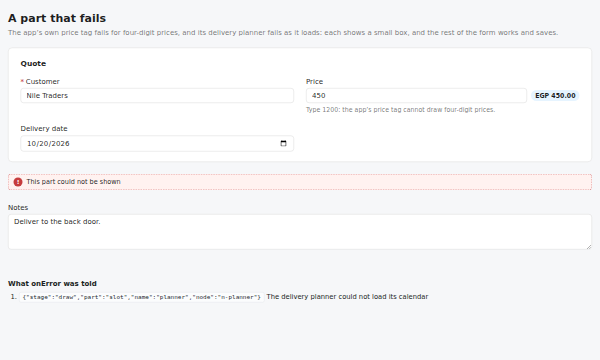
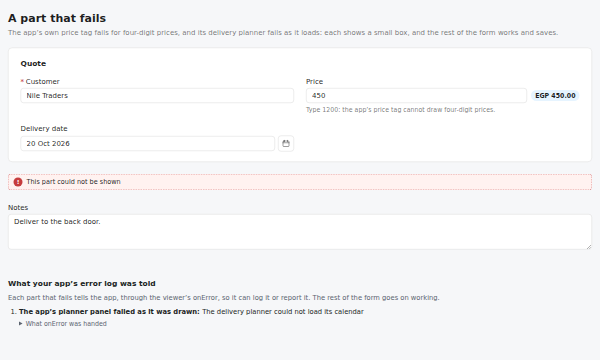
demos: your own parts as a name badge; failures logged in words

Changed region(s): [[0.0, 0.7639, 0.75, 0.9167], [0.03, 0.3667, 0.12, 0.4278], [0.45, 0.3972, 0.48, 0.4278]]

diff --git a/e2e/bindings.spec.ts b/e2e/bindings.spec.ts
@@ -3,34 +3,40 @@ import { node, open, screen } from './support';
 import { VARIANTS } from './variants';
 
 /**
- * A host app's own parts inside a Fieldia form: the "shout" field and the
- * "note" slot are written once per framework, in that framework's own way.
+ * A host app's own parts inside a Fieldia form: the badge field and the
+ * printing desk's slot are written once per framework, in that framework's own way.
  */
 for (const variant of VARIANTS) {
   test.describe(`${variant}: the app's own parts`, () => {
     test('a custom field reads and writes the form, and its label works', async ({ page }) => {
       await open(page, variant, 'page=custom&skin=outlined');
-      await page.getByLabel('Nickname').fill('hello');
-      await expect(node(page, 'f-nickname').locator('output')).toHaveText('HELLO!');
-      expect(await page.evaluate(() => (window as any).fieldiaDemo.handle.form.getState().values.nickname)).toBe('hello');
-      await page.evaluate(() => (window as any).fieldiaDemo.handle.form.setValue('nickname', 'set from outside'));
-      await expect(page.getByLabel('Nickname')).toHaveValue('set from outside');
+      // Nothing on the badge until a name is typed: no lone mark under an empty box.
+      await expect(node(page, 'f-badge-name').locator('output')).toHaveText('');
+      await expect(node(page, 'f-badge-name').locator('output')).toBeHidden();
+      await page.getByLabel('Name on the badge').fill('Sara Hassan');
+      await expect(node(page, 'f-badge-name').locator('output')).toHaveText('SARA HASSAN');
+      expect(await page.evaluate(() => (window as any).fieldiaDemo.handle.form.getState().values.badge_name)).toBe('Sara Hassan');
+      await page.evaluate(() => (window as any).fieldiaDemo.handle.form.setValue('badge_name', 'set from outside'));
+      await expect(page.getByLabel('Name on the badge')).toHaveValue('set from outside');
     });
 
     test('a slot keeps its own state and follows the form', async ({ page }) => {
       await open(page, variant, 'page=custom&skin=outlined');
       const note = node(page, 'note');
-      await note.getByRole('button', { name: 'Clicked 0 times' }).click();
-      await expect(note.getByRole('button', { name: 'Clicked 1 time' })).toBeVisible();
-      await page.getByLabel('Nickname').fill('Sam');
-      await expect(note.locator('.demo-hello')).toHaveText('Hello, Sam');
+      await expect(note.locator('.demo-hello')).toHaveText('Type a name to print its badge.');
+      await note.getByRole('button', { name: 'Print the badge' }).click();
+      await expect(note.getByRole('button', { name: 'Print again (1 printed)' })).toBeVisible();
+      await page.getByLabel('Name on the badge').fill('Sam');
+      await expect(note.locator('.demo-hello')).toHaveText('Ready to print the badge for Sam.');
+      // Its own count, kept across the form's changes.
+      await expect(note.getByRole('button', { name: 'Print again (1 printed)' })).toBeVisible();
       await screen(page, `${variant}-custom-parts`);
     });
 
     test('a required custom field is checked like any other', async ({ page }) => {
       await open(page, variant, 'page=custom');
       await page.getByRole('button', { name: 'Submit' }).click();
-      await expect(node(page, 'f-nickname').locator('.fd-error')).toHaveText('Nickname is required');
+      await expect(node(page, 'f-badge-name').locator('.fd-error')).toHaveText('Name on the badge is required');
     });
   });
 }

diff --git a/demos/shared/contained.ts b/demos/shared/contained.ts
@@ -99,9 +99,18 @@ export const priceTag: WidgetFactory = ({ form, name, id, document: doc }) => {
 /** The delivery planner, as a plain-DOM slot: it throws before it draws anything. */
 export const plannerSlot: SlotRenderer = () => loadPlanner();
 
+/** A failing part in a reader's words: which part it was, and when it failed. */
+function partWords(where: PartFailure, page: Page = containedPage): string {
+  const label = where.field ? page.fields[where.field]?.label ?? where.field : null;
+  const what = label ? `The ${label} field’s own widget` : where.part === 'slot' ? `The app’s ${where.name ?? 'own'} panel` : `A ${where.part}`;
+  const when = { draw: 'as it was drawn', update: 'as its value changed', focus: 'as it took the focus', remove: 'as it was taken away' }[where.stage];
+  return `${what} failed ${when}`;
+}
+
 /**
- * The list under the form of what onError was told: where, and the error's own words. A plain-DOM box every
- * framework's demo puts after its form, and the `onError` to give the viewer.
+ * Under the form, what the viewer's onError was told — the app's own log of what broke: each failure in words (which
+ * part, when, and the error's own message), with exactly what onError was handed beside it, for the developer. A
+ * plain-DOM box every framework's demo puts after its form, and the `onError` to give the viewer.
  */
 export function errorLog(doc: Document): { element: HTMLElement; onError: (error: unknown, where: PartFailure) => void } {
   const element = doc.createElement('section');
@@ -109,19 +118,28 @@ export function errorLog(doc: Document): { element: HTMLElement; onError: (error
   element.setAttribute('aria-labelledby', 'demo-error-log-title');
   const title = doc.createElement('h2');
   title.id = 'demo-error-log-title';
-  title.textContent = 'What onError was told';
-  const empty = doc.createElement('p');
-  empty.textContent = 'Nothing yet.';
+  title.textContent = 'What your app’s error log was told';
+  const about = doc.createElement('p');
+  about.className = 'demo-error-log-about';
+  about.textContent = 'Each part that fails tells the app, through the viewer’s onError, so it can log it or report it. Nothing has failed yet.';
   const list = doc.createElement('ol');
-  element.append(title, empty, list);
+  element.append(title, about, list);
   return {
     element,
     onError(error, where) {
-      empty.hidden = true;
+      about.textContent = 'Each part that fails tells the app, through the viewer’s onError, so it can log it or report it. The rest of the form goes on working.';
       const item = doc.createElement('li');
-      const said = doc.createElement('code');
-      said.textContent = JSON.stringify(where);
-      item.append(said, ` ${error instanceof Error ? error.message : String(error)}`);
+      const said = doc.createElement('p');
+      const words = doc.createElement('strong');
+      words.textContent = `${partWords(where)}: `;
+      said.append(words, error instanceof Error ? error.message : String(error));
+      const handed = doc.createElement('details');
+      const summary = doc.createElement('summary');
+      summary.textContent = 'What onError was handed';
+      const code = doc.createElement('code');
+      code.textContent = JSON.stringify(where);
+      handed.append(summary, code);
+      item.append(said, handed);
       list.append(item);
     },
   };

diff --git a/demos/shared/custom-page.ts b/demos/shared/custom-page.ts
@@ -1,24 +1,26 @@
 import type { Page } from '@fieldia/core';
 
 /**
- * A page made to prove that a host app can plug in its own parts: the
- * "shout" field and the "note" slot are written once per framework, each in
- * that framework's own way, and behave the same everywhere.
+ * Your own parts, as an app uses them: a conference's badge. The name on it is
+ * a field drawn by the app's own widget, which shows the badge as it is typed;
+ * the printing desk under it is a slot the app fills, with a count of its own
+ * that follows the form. Each framework's demo writes the two parts in its own
+ * way (main.ts / main.tsx), from the words here, and they behave the same.
  */
 export const customPage: Page = {
   fieldia: '0.1',
-  id: 'custom-parts',
-  title: 'Your own parts',
-  description: 'A field and a panel written in the host framework, inside a Fieldia form.',
+  id: 'badge',
+  title: 'Your conference badge',
+  description: 'The name is typed into a field the app draws itself, which shows the badge as it will be printed. The printing desk under it is the app’s own panel.',
   data: { kind: 'responses' },
   fields: {
-    nickname: { type: 'char', label: 'Nickname', required: true },
-    mood: {
+    badge_name: { type: 'char', label: 'Name on the badge', required: true, help: 'As people should read it from across the room.' },
+    badge_type: {
       type: 'selection',
-      label: 'Mood',
+      label: 'Badge',
       options: [
-        { value: 'calm', label: 'Calm' },
-        { value: 'busy', label: 'Busy' },
+        { value: 'attendee', label: 'Attendee' },
+        { value: 'speaker', label: 'Speaker' },
       ],
     },
   },
@@ -29,10 +31,10 @@ export const customPage: Page = {
       {
         type: 'section',
         id: 'parts',
-        title: 'Custom field',
+        title: 'Your badge',
         children: [
-          { type: 'field', id: 'f-nickname', field: 'nickname', widget: 'shout' },
-          { type: 'field', id: 'f-mood', field: 'mood', widget: 'radio' },
+          { type: 'field', id: 'f-badge-name', field: 'badge_name', widget: 'name-badge' },
+          { type: 'field', id: 'f-badge-type', field: 'badge_type', widget: 'radio' },
         ],
       },
       { type: 'slot', id: 'note', name: 'note' },
@@ -40,8 +42,9 @@ export const customPage: Page = {
   },
 };
 
-/** What the shout field shows under its input. */
-export const shout = (value: unknown) => `${String(value ?? '').toUpperCase()}!`;
-/** What the note slot says. */
-export const clicked = (n: number) => `Clicked ${n} ${n === 1 ? 'time' : 'times'}`;
-export const greeting = (nickname: unknown) => (nickname ? `Hello, ${String(nickname)}` : 'Hello');
+/** The badge, as the app's own widget shows it under its box: the name in capitals, as it is printed; nothing until typed. */
+export const shout = (value: unknown) => String(value ?? '').trim().toUpperCase();
+/** The printing desk's button: its own count, kept by the panel itself. */
+export const clicked = (n: number) => (n === 0 ? 'Print the badge' : `Print again (${n} printed)`);
+/** What the printing desk says, from the form's own values: it follows the name as it is typed. */
+export const greeting = (name: unknown) => (String(name ?? '').trim() ? `Ready to print the badge for ${String(name).trim()}.` : 'Type a name to print its badge.');

diff --git a/demos/plain/main.ts b/demos/plain/main.ts
@@ -10,7 +10,7 @@ import { chatterSlot } from '@fieldia/chatter';
 import { sampleChatter } from '../shared/sample-chatter';
 import { historySlot } from '@fieldia/chatter';
 import { wiHistoryChatter } from '../shared/wi-history';
-import { appPages, openRecord, optionsFromQuery, pageFromQuery, recordFromQuery, sampleDataSource } from '../shared/sample-data';
+import { appPages, openRecord, optionsFromQuery, pageFromQuery, pages, recordFromQuery, sampleDataSource } from '../shared/sample-data';
 import { panelBar } from '../shared/panel-demo';
 import { answerAction } from '../shared/order-desk';
 import { timeFirstPaint } from '../shared/timing';
@@ -32,7 +32,7 @@ const actions: string[] = [];
 /** Every button press in full, with the records chosen in a list. */
 const requests: ActionRequest[] = [];
 
-/** The "shout" field, as a plain-DOM widget. */
+/** The badge field, as a plain-DOM widget. */
 const shoutWidget: WidgetFactory = ({ form, name: field, id, document }) => {
   const input = document.createElement('input');
   input.id = id;
@@ -84,7 +84,7 @@ const options: ViewerOptions = {
     // The shop's answers to the pages' steps: the stock checked for "Order by phone".
     return answerAction(request, params.get('locale') ?? undefined);
   },
-  widgets: { 'char.shout': shoutWidget, 'monetary.tag': priceTag, ...gridWidgets, ...codeWidgets, ...monaco, ...demoMapWidgets },
+  widgets: { 'char.name-badge': shoutWidget, 'monetary.tag': priceTag, ...gridWidgets, ...codeWidgets, ...monaco, ...demoMapWidgets },
   // Told of each part that fails, which then shows a small box in its place: "A part that fails" lists them.
   onError: failures?.onError,
   // A list with `map` shows its records on one too.
@@ -109,7 +109,7 @@ const options: ViewerOptions = {
       button.addEventListener('click', () => (button.textContent = clicked(++clicks)));
       const hello = document.createElement('p');
       hello.className = 'demo-hello';
-      const show = () => (hello.textContent = greeting(form.getState().values['nickname']));
+      const show = () => (hello.textContent = greeting(form.getState().values['badge_name']));
       show();
       const leave = form.subscribe(show);
       element.className += ' demo-note';
@@ -188,4 +188,5 @@ if (name === 'fields') {
 // The listing has a bar over it: ten photos as a phone takes them, added at once (shared/listing-photos.ts).
 if (name === 'listing-photos') document.getElementById('app')?.before(photosBar());
 
-Object.assign(window, { fieldiaDemo: { handle, dataSource, actions, requests, chatter, panelResults } });
+// `pageNames`: every page `?page=` opens, for the browser test that each is named for what it shows.
+Object.assign(window, { fieldiaDemo: { handle, dataSource, actions, requests, chatter, panelResults, pageNames: Object.keys(pages) } });

diff --git a/demos/demo.css b/demos/demo.css
@@ -29,10 +29,17 @@ html, body { margin: 0; background: #f7f8fa; color: #1f2933; font: 14px/1.45 sys
 .demo-feed { background: #fff; border: 1px solid #e3e6ea; padding: 14px 16px; border-radius: 6px; }
 .demo-feed h3 { margin: 0 0 8px; font-size: 14px; }
 .demo-feed p { margin: 6px 0; color: #4b5563; }
-.demo-shout { display: grid; gap: 4px; }
-.demo-shout output { font-weight: 700; letter-spacing: 0.04em; color: var(--fd-accent); }
-.demo-note { display: flex; gap: 12px; align-items: center; padding: 12px 0; }
-.demo-hello { margin: 0; }
+/* "Your own parts": the badge field the app draws (its box, then the badge as it will be printed), and the printing desk
+   it fills a slot with. In Fieldia's tokens, so each follows the look and the scheme. */
+.demo-shout { display: grid; gap: 12px; justify-items: start; }
+.demo-shout .fd-input { justify-self: stretch; }
+.demo-shout output { min-width: min(260px, 100%); max-width: 100%; box-sizing: border-box; padding: 12px 22px 16px; border: 2px solid var(--fd-accent); border-block-start-width: 10px; border-radius: 12px; background: var(--fd-surface); color: var(--fd-text); font-size: 24px; font-weight: 800; letter-spacing: 0.05em; text-align: center; overflow-wrap: anywhere; }
+.demo-shout output::before { content: "Hello, my name is"; display: block; margin-block-end: 4px; color: var(--fd-muted); font-size: 11px; font-weight: 700; letter-spacing: 0.12em; text-transform: uppercase; }
+.demo-shout output:empty { display: none; }
+.fd-slot[data-slot="note"] { display: flex; flex-wrap: wrap; gap: 12px 16px; align-items: center; padding: 14px 18px; border: 1px dashed var(--fd-border); border-radius: var(--fd-radius, 8px); color: var(--fd-text); }
+.demo-hello { margin: 0; flex: 1 1 16em; }
+/* Angular's component wraps the desk's words and button in an element of its own: laid out as if it were not there. */
+.fd-slot[data-slot="note"] > :is(demo-note, div:only-child) { display: contents; }
 /* The app's price tag ("A part that fails"): a box for the price, and the price as a tag beside it. */
 .demo-price { display: flex; gap: 8px; align-items: center; }
 .demo-price .fd-input { flex: 1; min-width: 0; }

diff --git a/demos/vue/main.ts b/demos/vue/main.ts
@@ -20,7 +20,7 @@ const actions: string[] = [];
 /** Every button press in full, with the records chosen in a list. */
 const requests: ActionRequest[] = [];
 
-/** The "shout" field, as a Vue component. */
+/** The badge field, as a Vue component. */
 const Shout = defineComponent({
   props: {
     value: { type: null as unknown as PropType<Value | undefined>, default: undefined },
@@ -50,7 +50,7 @@ const Note = defineComponent({
     const clicks = ref(0);
     const state = useFormState(props.form);
     return () => [
-      h('p', { class: 'demo-hello' }, greeting(state.value.values['nickname'])),
+      h('p', { class: 'demo-hello' }, greeting(state.value.values['badge_name'])),
       h('button', { type: 'button', class: 'fd-button', onClick: () => clicks.value++ }, clicked(clicks.value)),
     ];
   },
@@ -125,7 +125,7 @@ createApp({
         theme: (params.get('theme') as Theme | null) ?? undefined,
         dir: params.get('dir') === 'rtl' ? 'rtl' : undefined,
         locale: (params.get('locale') as Locale | null) ?? undefined,
-        fieldTypes: { 'char.shout': Shout, 'monetary.tag': PriceTag },
+        fieldTypes: { 'char.name-badge': Shout, 'monetary.tag': PriceTag },
         onError: failures?.onError,
         widgets: { ...gridWidgets, ...codeWidgets, ...demoMapWidgets },
         listViews: demoListViews,

diff --git a/demos/react/main.tsx b/demos/react/main.tsx
@@ -21,7 +21,7 @@ const actions: string[] = [];
 /** Every button press in full, with the records chosen in a list. */
 const requests: ActionRequest[] = [];
 
-/** The "shout" field, as a React component. */
+/** The badge field, as a React component. */
 function Shout({ id, value, readonly, onChange }: FieldComponentProps) {
   return (
     <span className="demo-shout">
@@ -37,7 +37,7 @@ function Note({ form }: SlotComponentProps) {
   const state = useFormState(form);
   return (
     <>
-      <p className="demo-hello">{greeting(state.values['nickname'])}</p>
+      <p className="demo-hello">{greeting(state.values['badge_name'])}</p>
       <button type="button" className="fd-button" onClick={() => setClicks((n) => n + 1)}>
         {clicked(clicks)}
       </button>
@@ -91,7 +91,7 @@ function Demo() {
         // The shop's answers to the pages' steps: the stock checked for "Order by phone".
         return answerAction(request, params.get('locale') ?? undefined);
       }}
-      fieldTypes={{ 'char.shout': Shout, 'monetary.tag': PriceTag }}
+      fieldTypes={{ 'char.name-badge': Shout, 'monetary.tag': PriceTag }}
       onError={failures?.onError}
       widgets={{ ...gridWidgets, ...codeWidgets, ...demoMapWidgets }}
       listViews={demoListViews}

diff --git a/demos/angular/main.ts b/demos/angular/main.ts
@@ -25,7 +25,7 @@ const actions: string[] = [];
 /** Every button press in full, with the records chosen in a list. */
 const requests: ActionRequest[] = [];
 
-/** The "shout" field, as an Angular component. */
+/** The badge field, as an Angular component. */
 @Component({
   selector: 'demo-shout',
   template: `<span class="demo-shout">
@@ -119,7 +119,7 @@ class NoteComponent implements OnInit {
     this.state = formState(this.form, this.destroyRef);
   }
   hello() {
-    return greeting(this.state?.().values['nickname']);
+    return greeting(this.state?.().values['badge_name']);
   }
   label() {
     return clicked(this.clicks());
@@ -172,7 +172,7 @@ class DemoComponent {
   readonly theme = (params.get('theme') as Theme | null) ?? undefined;
   readonly dir: 'ltr' | 'rtl' | undefined = params.get('dir') === 'rtl' ? 'rtl' : undefined;
   readonly locale = (params.get('locale') as Locale | null) ?? undefined;
-  readonly fieldTypes = { 'char.shout': ShoutComponent, 'monetary.tag': PriceTagComponent };
+  readonly fieldTypes = { 'char.name-badge': ShoutComponent, 'monetary.tag': PriceTagComponent };
   readonly widgets = { ...gridWidgets, ...codeWidgets, ...demoMapWidgets };
   readonly listViews = demoListViews;
   readonly maps = demoMaps;
